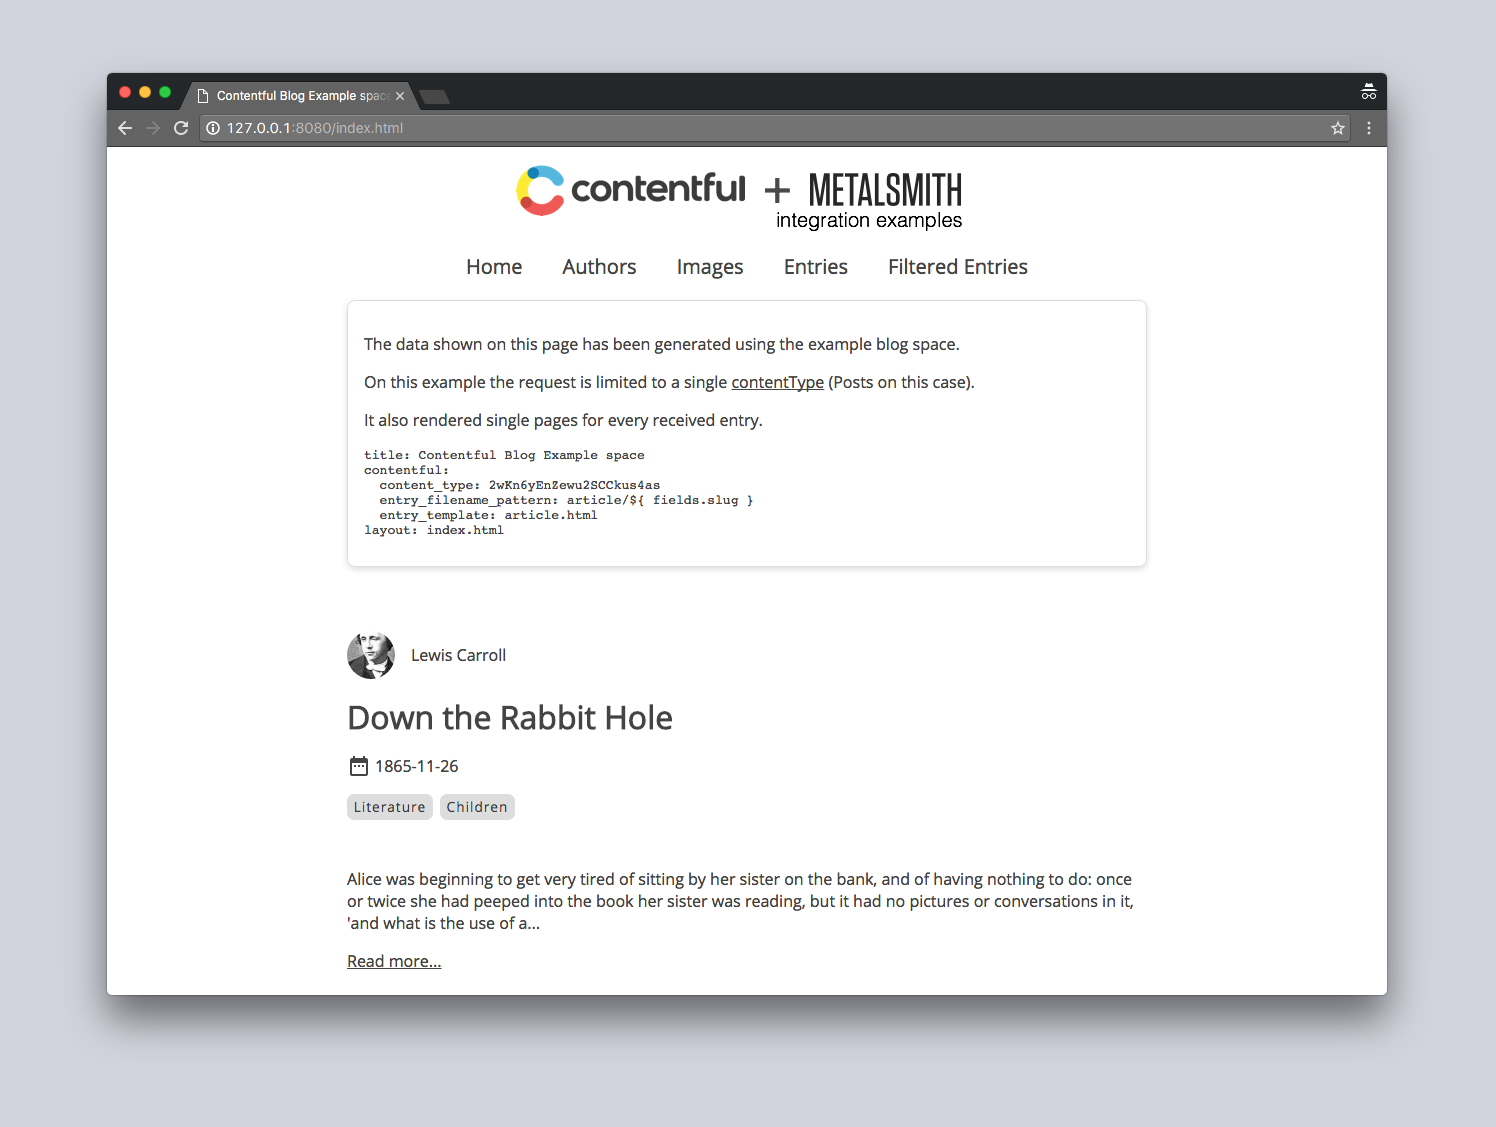
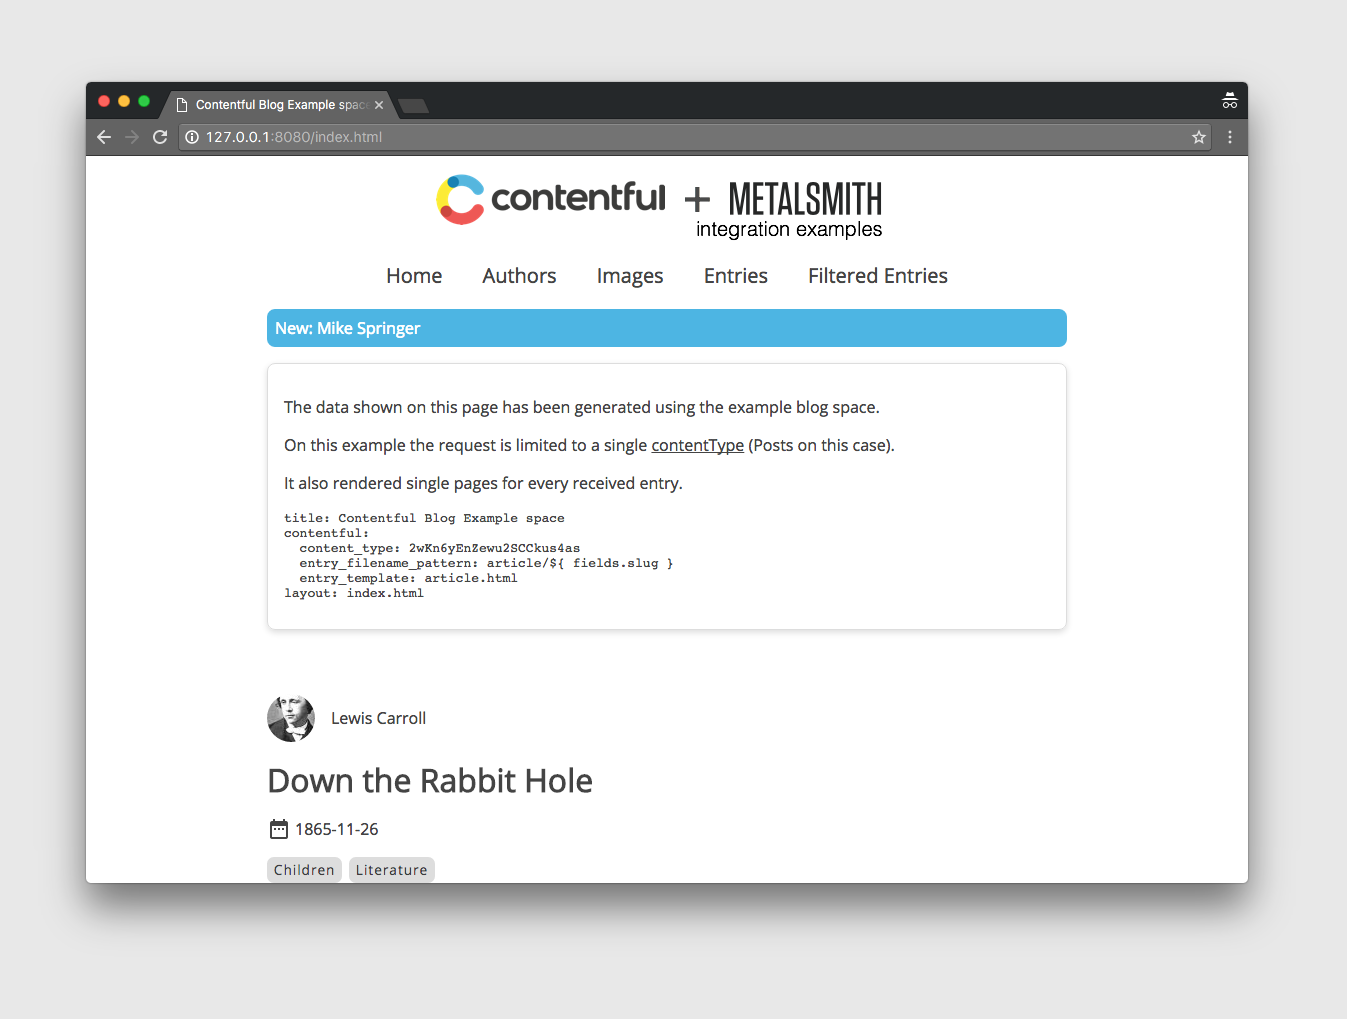
add common data example

Changed region(s): [[0.0624, 0.0304, 0.9666, 0.9431]]

diff --git a/build.js b/build.js
@@ -27,7 +27,15 @@ Metalsmith(__dirname)
   .destination('build')
   .use(contentful({
     space_id: 'w7sdyslol3fu',
[2 lines of base64/hex data omitted]
+    common: {
+      featured_author: {
+        limit: 1,
+        filter: {
+          'sys.id[in]': '5JQ715oDQW68k8EiEuKOk8'
+        }
+      }
+    },
   }))
   .use(layouts({
     engine: 'handlebars',

diff --git a/src/style/main.scss b/src/style/main.scss
@@ -1,6 +1,7 @@
 @import "variables";
 @import "base";
 @import "components/article";
+@import "components/featured";
 @import "components/footer";
 @import "components/list";
 @import "components/nav";
@@ -8,6 +9,8 @@
 @import "util";
 
 .c-header {
+  position: relative;
+
   &__logo {
     display: block;
     margin: 0 auto;

diff --git a/partials/header.html b/partials/header.html
@@ -9,4 +9,8 @@
       <li><a href="/filtered.html">Filtered Entries</a></li>
     </ul>
   </nav>
+
+  <div class="c-featured">
+    New: {{ common.featured_author.items.0.fields.name }}
+  </div>
 </header>

diff --git a/src/style/components/_featured.scss b/src/style/components/_featured.scss
@@ -1,0 +1,9 @@
+.c-featured {
+  padding: .5em;
+  margin-bottom: 1em;
+
+  border-radius: .5em;
+
+  background: $contentfulBlue;
+  color: #fff;
+}
